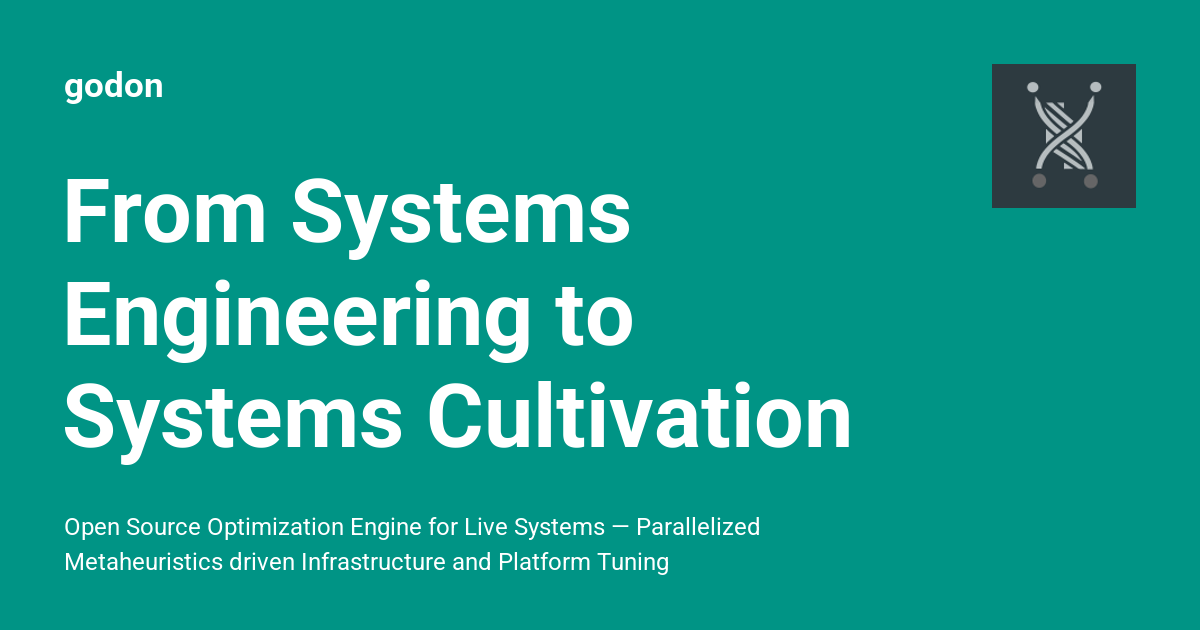
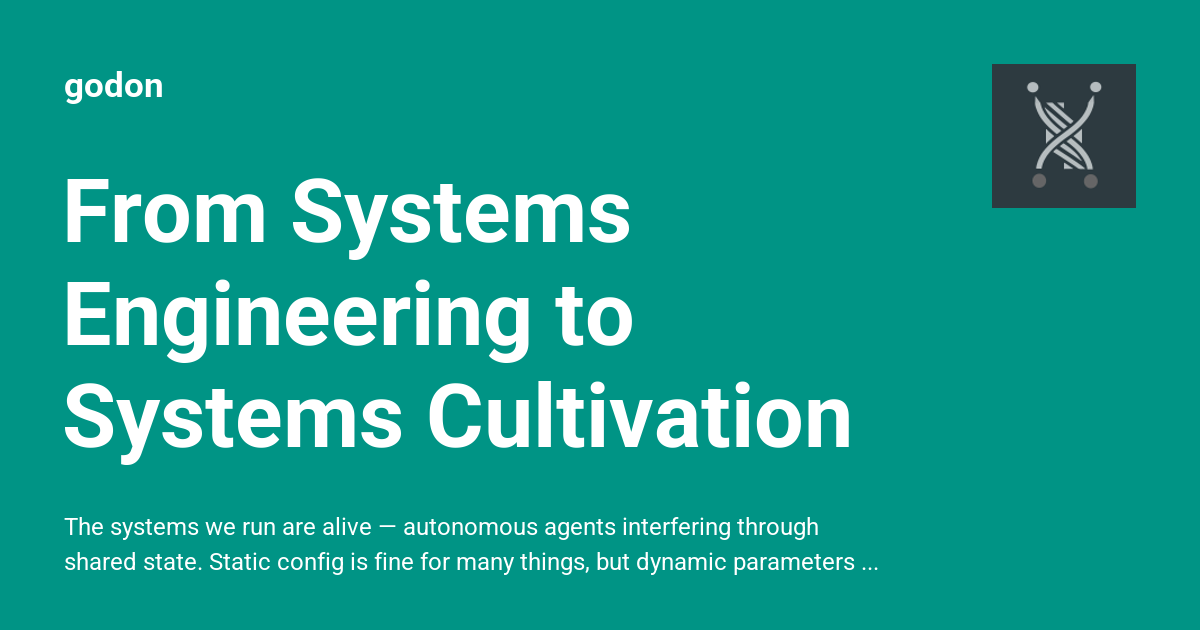
blog: force excerpt-only index with description metadata

Changed region(s): [[0.0308, 0.8143, 0.7092, 0.9048]]

diff --git a/docs/blog/2026/06/07/from-systems-engineering-to-systems-cultivation/index.html b/docs/blog/2026/06/07/from-systems-engineering-to-systems-cultivation/index.html
@@ -6,7 +6,7 @@
       <meta charset="utf-8">
       <meta name="viewport" content="width=device-width,initial-scale=1">
       
-        <meta name="description" content="Open Source Optimization Engine for Live Systems — Parallelized Metaheuristics driven Infrastructure and Platform Tuning">
+        <meta name="description" content="The systems we run are alive — autonomous agents interfering through shared state. Static config is fine for many things, but dynamic parameters need cultivation, not engineering. The first step is perception.">
       
       
         <meta name="author" content="Matthias Tafelmeier">
@@ -62,7 +62,7 @@
   
 <meta property="og:type" content="website" />
 <meta property="og:title" content="From Systems Engineering to Systems Cultivation - godon" />
-<meta property="og:description" content="Open Source Optimization Engine for Live Systems — Parallelized Metaheuristics driven Infrastructure and Platform Tuning" />
+<meta property="og:description" content="The systems we run are alive — autonomous agents interfering through shared state. Static config is fine for many things, but dynamic parameters need cultivation, not engineering. The first step is perception." />
 <meta property="og:image" content="https://godon-dev.github.io/godon-documentation/assets/images/social/blog/2026/06/07/from-systems-engineering-to-systems-cultivation.png" />
 <meta property="og:image:type" content="image/png" />
 <meta property="og:image:width" content="1200" />
@@ -70,7 +70,7 @@
 <meta property="og:url" content="https://godon-dev.github.io/godon-documentation/blog/2026/06/07/from-systems-engineering-to-systems-cultivation/" />
 <meta property="twitter:card" content="summary_large_image" />
 <meta property="twitter:title" content="From Systems Engineering to Systems Cultivation - godon" />
-<meta property="twitter:description" content="Open Source Optimization Engine for Live Systems — Parallelized Metaheuristics driven Infrastructure and Platform Tuning" />
+<meta property="twitter:description" content="The systems we run are alive — autonomous agents interfering through shared state. Static config is fine for many things, but dynamic parameters need cultivation, not engineering. The first step is perception." />
 <meta property="twitter:image" content="https://godon-dev.github.io/godon-documentation/assets/images/social/blog/2026/06/07/from-systems-engineering-to-systems-cultivation.png" />
 </head>
   

diff --git a/material/docs/blog/posts/2026-06-07-from-systems-engineering-to-systems-cultivation.md b/material/docs/blog/posts/2026-06-07-from-systems-engineering-to-systems-cultivation.md
@@ -4,6 +4,7 @@ tags:
   - essay
 authors:
   - matthias-tafelmeier
+description: "The systems we run are alive — autonomous agents interfering through shared state. Static config is fine for many things, but dynamic parameters need cultivation, not engineering. The first step is perception."
 ---
 
 # From Systems Engineering to Systems Cultivation
